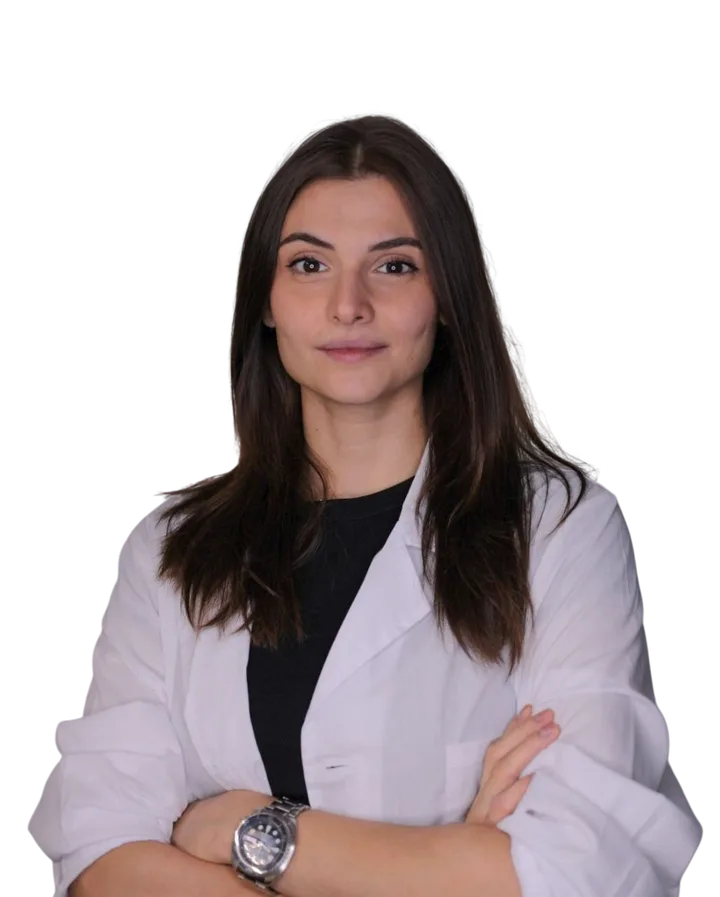
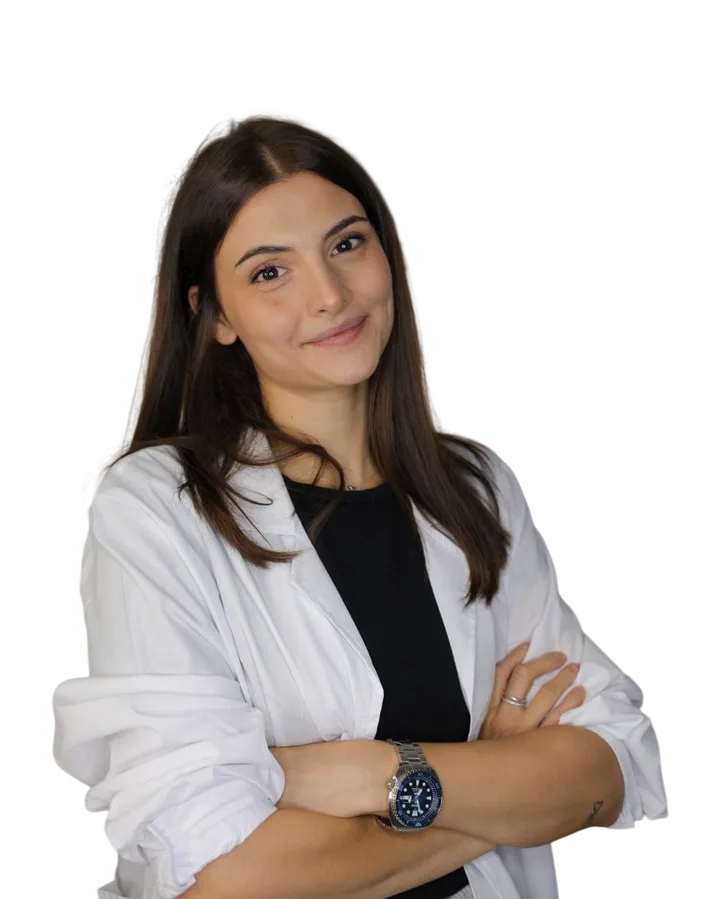
Sostituisce la foto profilo nella hero con la nuova foto

diff --git a/index.html b/index.html
@@ -41,7 +41,7 @@
   <div class="container">
     <div class="hero-photo-box">
       <div class="hero-photo-clip">
-        <img src="images/foto-profilo.webp" alt="Dott.ssa Sofia Fenzi, dietista" width="720" height="897" fetchpriority="high">
+        <img src="images/foto-profilo.webp" alt="Dott.ssa Sofia Fenzi, dietista" width="720" height="899" fetchpriority="high">
       </div>
     </div>
     <h1>Dott.ssa Sofia Fenzi</h1>
